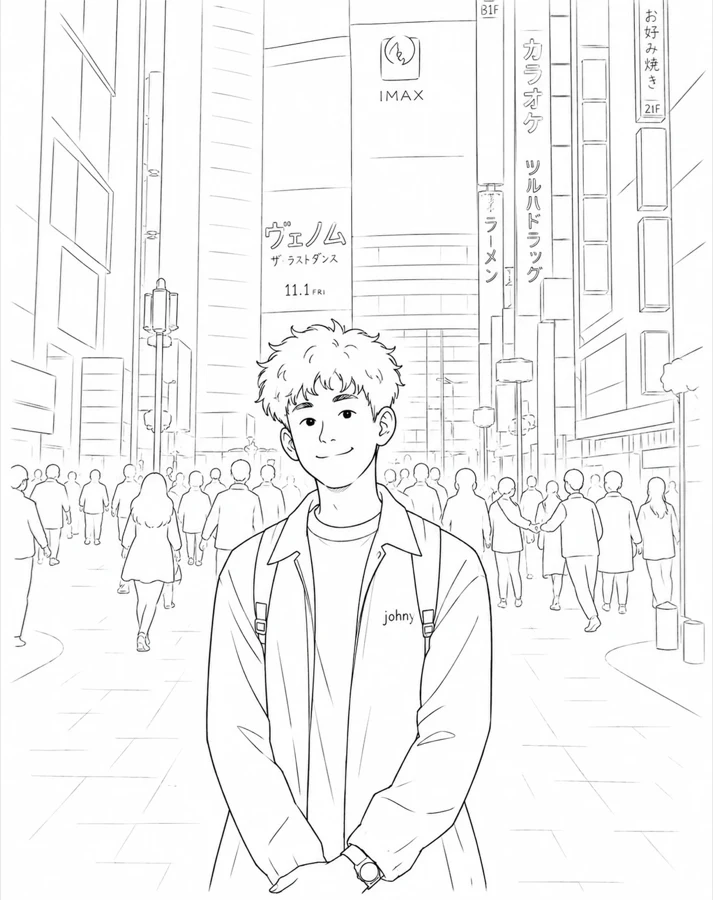
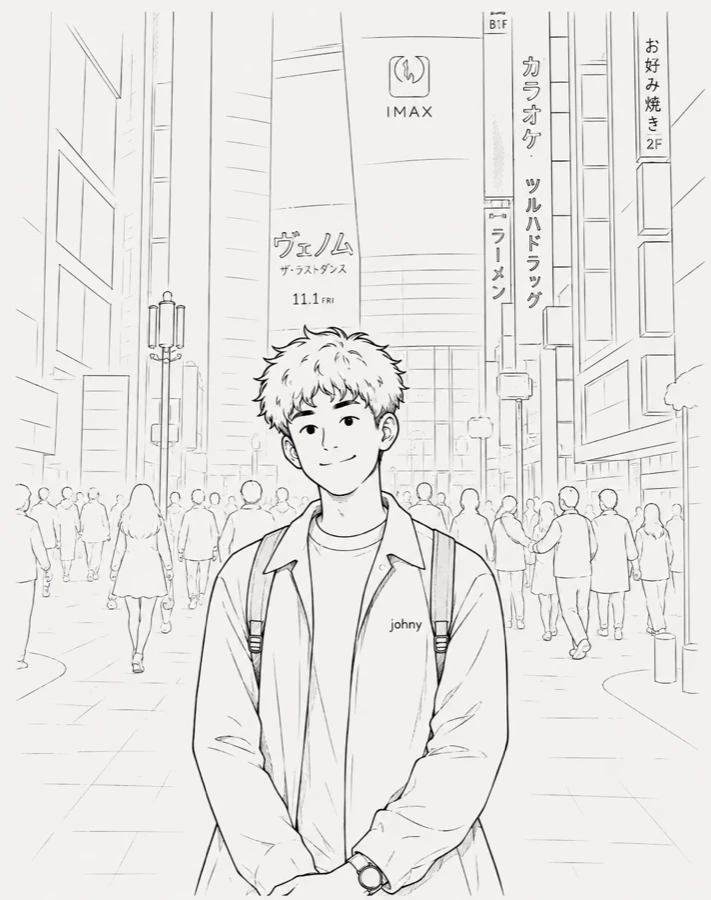
swap in the darker drawing, and name the way into the photograph
The new illustration is inked heavily enough to stand on its own, so the
contrast filter comes off — it was clipping this version's ground to white
and flattening the faint construction lines. Its ground sits a shade below
the paper, which left the frame's hairline invisible, so the border goes to
26% ink.

The caption joins the micro-label system it was sitting next to all along:
JetBrains Mono, uppercase, letterspaced — CHIANG MAI, TH and AVAILABLE.

Under it, VIEW REALITY ↗. Until now nothing said the frame had a second
picture in it. Hovering the control previews, clicking pins, and the frame
itself still answers a click. It replaces the bare tabindex on the div, so
the control is a real button; it stays hidden unless the drawing loads,
since with no drawing there is nothing to look past.

diff --git a/style.css b/style.css
@@ -589,7 +589,9 @@ main { position: relative; z-index: 10; flex: 1; }
   position: relative;
   aspect-ratio: 4 / 5;
   background: var(--surface);
-  border: 1px solid var(--line);
+  /* A shade firmer than --line: the drawing's own ground is close enough
+     to the paper that the default hairline all but disappears. */
+  border: 1px solid color-mix(in srgb, var(--ink) 26%, transparent);
 }
 .profile__img img {
   width: 100%;
@@ -604,18 +606,16 @@ main { position: relative; z-index: 10; flex: 1; }
 .portrait .portrait__art {
   opacity: 1;
   /* The drawing traces this exact photograph, frame for frame, so the two
-     layers need no nudging — the face dissolves in place. The ink is only
-     firmed up a little to hold its own against a night photograph. */
-  filter: contrast(1.22) brightness(0.98);
-  /* Outbids .img-reveal img, which would otherwise drop the opacity leg. */
+     layers need no nudging — the face dissolves in place. No contrast
+     filter: this version is inked dark enough already, and pushing it
+     would clip its ground to white and lose the faint construction lines.
+     Outbids .img-reveal img, which would otherwise drop the opacity leg. */
   transition: opacity 520ms var(--ease), transform 1100ms var(--ease);
 }
 
 .portrait:hover .portrait__art,
-.portrait:focus-visible .portrait__art,
+.portrait.is-peeking .portrait__art,
 .portrait.is-unmasked .portrait__art { opacity: 0; }
-
-.portrait:focus-visible { outline: 1px solid var(--cobalt); outline-offset: 3px; }
 
 /* No illustration on disk, no two-layer frame — fall back to the photograph. */
 .portrait.is-photo-only .portrait__art { display: none; }
@@ -627,7 +627,59 @@ main { position: relative; z-index: 10; flex: 1; }
   justify-content: space-between;
   gap: 1rem;
   margin-top: 0.75rem;
+  font-family: var(--mono);
+  font-size: var(--fs-micro);
+  letter-spacing: 0.14em;
+  text-transform: uppercase;
+  line-height: 1.4;
   color: var(--mute);
+}
+
+/* The only cue that the frame has a second picture under it. Cobalt,
+   because on this page cobalt is what you can act on. */
+.portrait__toggle {
+  display: inline-flex;
+  align-items: center;
+  gap: 0.5rem;
+  margin-top: 0.6rem;
+  padding: 0;
+  background: none;
+  border: 0;
+  font-family: var(--mono);
+  font-size: var(--fs-micro);
+  font-weight: 500;
+  letter-spacing: 0.14em;
+  text-transform: uppercase;
+  color: var(--cobalt);
+  cursor: pointer;
+}
+.portrait__toggle-arrow {
+  display: inline-block;
+  line-height: 1;
+  transition: transform var(--dur-quick) var(--ease);
+}
+.portrait__toggle:hover .portrait__toggle-arrow,
+.portrait__toggle:focus-visible .portrait__toggle-arrow { transform: translate(4px, -4px); }
+.portrait__toggle:focus-visible { outline: 1px solid var(--cobalt); outline-offset: 4px; }
+
+/* Underline draws left to right under the words only, never the arrow —
+   the same interaction idiom as the contact CTA, at the same tempo. */
+.portrait__toggle-label { position: relative; }
+.portrait__toggle-label::after {
+  content: "";
+  position: absolute;
+  left: 0; right: 0; bottom: -0.3em;
+  height: 1px;
+  background: currentColor;
+  transform: scaleX(0);
+  transform-origin: right center;
+  transition: transform var(--dur-quick) var(--ease);
+}
+.portrait__toggle:hover .portrait__toggle-label::after,
+.portrait__toggle:focus-visible .portrait__toggle-label::after,
+.portrait__toggle[aria-pressed="true"] .portrait__toggle-label::after {
+  transform: scaleX(1);
+  transform-origin: left center;
 }
 
 /* The one green on the page. Small enough to read as a signal

diff --git a/script.js b/script.js
@@ -206,25 +206,45 @@ const reducedMotion = window.matchMedia("(prefers-reduced-motion: reduce)").matc
 /* ── Portrait — the drawing gives way to the photograph ────── */
 (function portrait() {
   const frame = document.querySelector(".portrait");
-  if (!frame) return;
+  const toggle = document.querySelector("[data-portrait-toggle]");
+  if (!frame || !toggle) return;
   const art = frame.querySelector("[data-portrait-art]");
   if (!art) return;
 
-  // If the illustration never arrives, drop the layer rather than leave a
-  // broken frame sitting over the photograph.
-  const drop = () => frame.classList.add("is-photo-only");
-  if (art.complete && art.naturalWidth === 0) drop();
+  // If the illustration never arrives there is nothing to look past, so the
+  // layer goes and the control never appears.
+  const drop = () => {
+    frame.classList.add("is-photo-only");
+    toggle.hidden = true;
+  };
+  const offer = () => { toggle.hidden = false; };
+
+  if (art.complete) { art.naturalWidth === 0 ? drop() : offer(); }
+  art.addEventListener("load", offer);
   art.addEventListener("error", drop);
 
-  // A pointer that cannot hover gets a tap instead, so the photograph is
-  // reachable on a phone too.
-  if (window.matchMedia("(hover: none)").matches) {
-    frame.addEventListener("click", () => {
-      if (!frame.classList.contains("is-photo-only")) {
-        frame.classList.toggle("is-unmasked");
-      }
-    });
-  }
+  // Hovering the control previews, the same as hovering the frame does;
+  // clicking pins it, which is the only route open on a touch screen.
+  const peek = (on) => {
+    if (!frame.classList.contains("is-unmasked")) {
+      frame.classList.toggle("is-peeking", on);
+    }
+  };
+  toggle.addEventListener("pointerenter", () => peek(true));
+  toggle.addEventListener("pointerleave", () => peek(false));
+  toggle.addEventListener("focus", () => peek(true));
+  toggle.addEventListener("blur", () => peek(false));
+
+  const pin = () => {
+    const on = !frame.classList.contains("is-unmasked");
+    frame.classList.toggle("is-unmasked", on);
+    frame.classList.remove("is-peeking");
+    toggle.setAttribute("aria-pressed", String(on));
+  };
+  toggle.addEventListener("click", pin);
+  frame.addEventListener("click", () => {
+    if (!frame.classList.contains("is-photo-only")) pin();
+  });
 })();
 
 /* ── Reveal on scroll ──────────────────────────────────────── */

diff --git a/index.html b/index.html
@@ -136,8 +136,7 @@
         <!-- Right: profile photo -->
         <div class="hero__photo">
           <div class="profile">
-            <div class="profile__img img-reveal portrait" tabindex="0"
-                 aria-label="Portrait of Siwat Jankam — hover or tap to see the photograph">
+            <div class="profile__img img-reveal portrait">
               <img class="portrait__real" src="images/propic.webp" alt="Siwat Jankam" />
               <img class="portrait__art" src="images/portrait-line.webp" alt=""
                    aria-hidden="true" data-portrait-art />
@@ -146,6 +145,11 @@
               <span>Chiang Mai, TH</span>
               <span class="status"><i class="status__dot" aria-hidden="true"></i>Available</span>
             </p>
+            <button class="portrait__toggle" type="button" aria-pressed="false"
+                    data-portrait-toggle hidden>
+              <span class="portrait__toggle-label">View reality</span>
+              <span class="portrait__toggle-arrow" aria-hidden="true">&#8599;</span>
+            </button>
           </div>
         </div>
 
